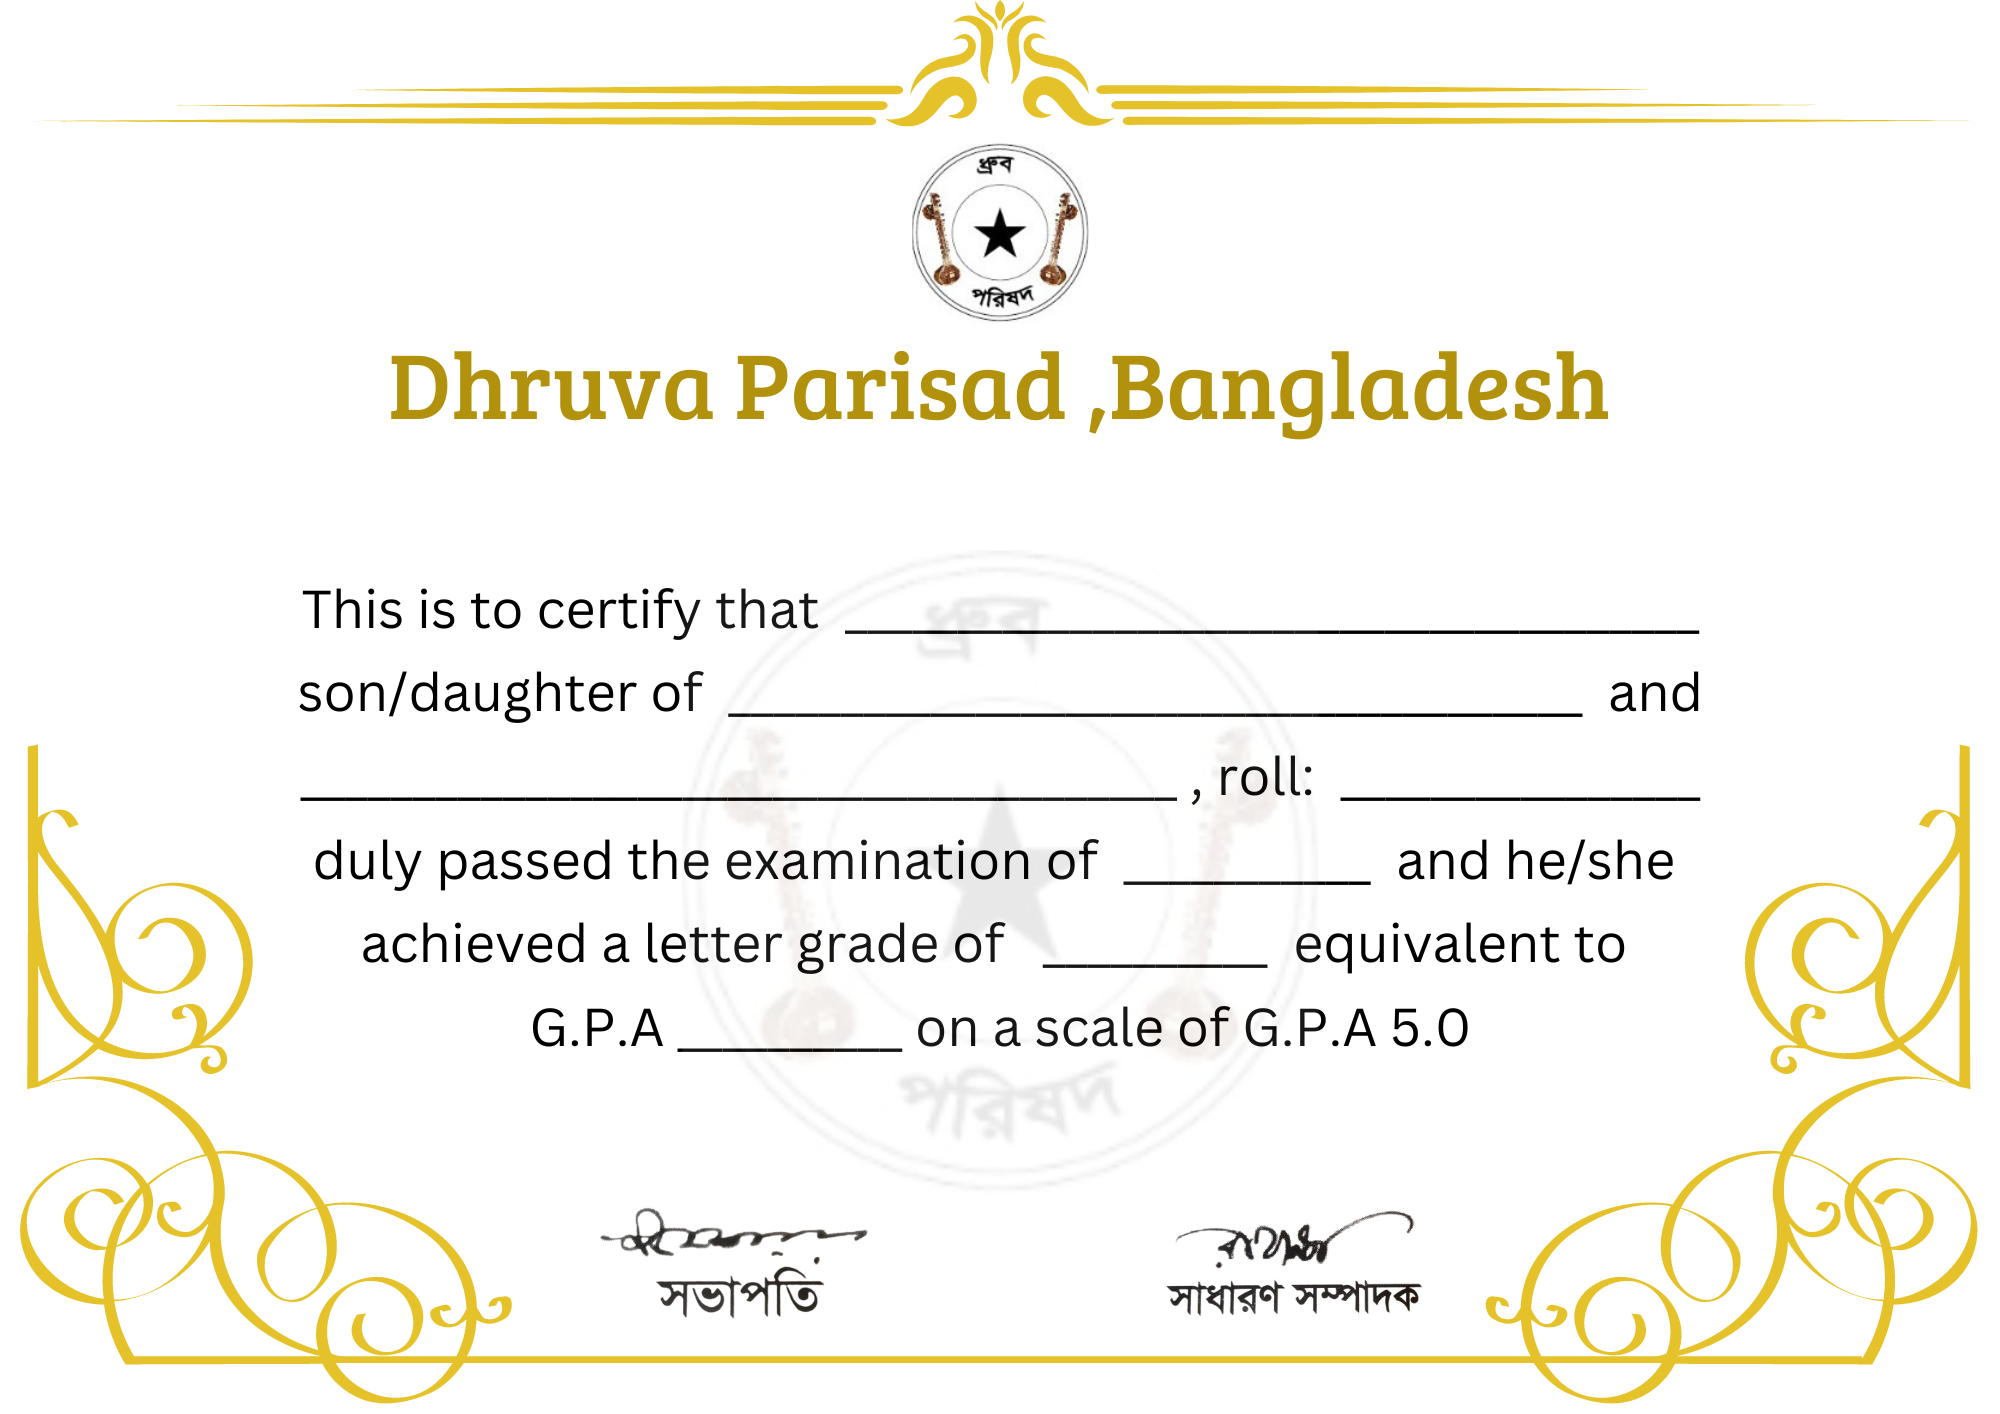
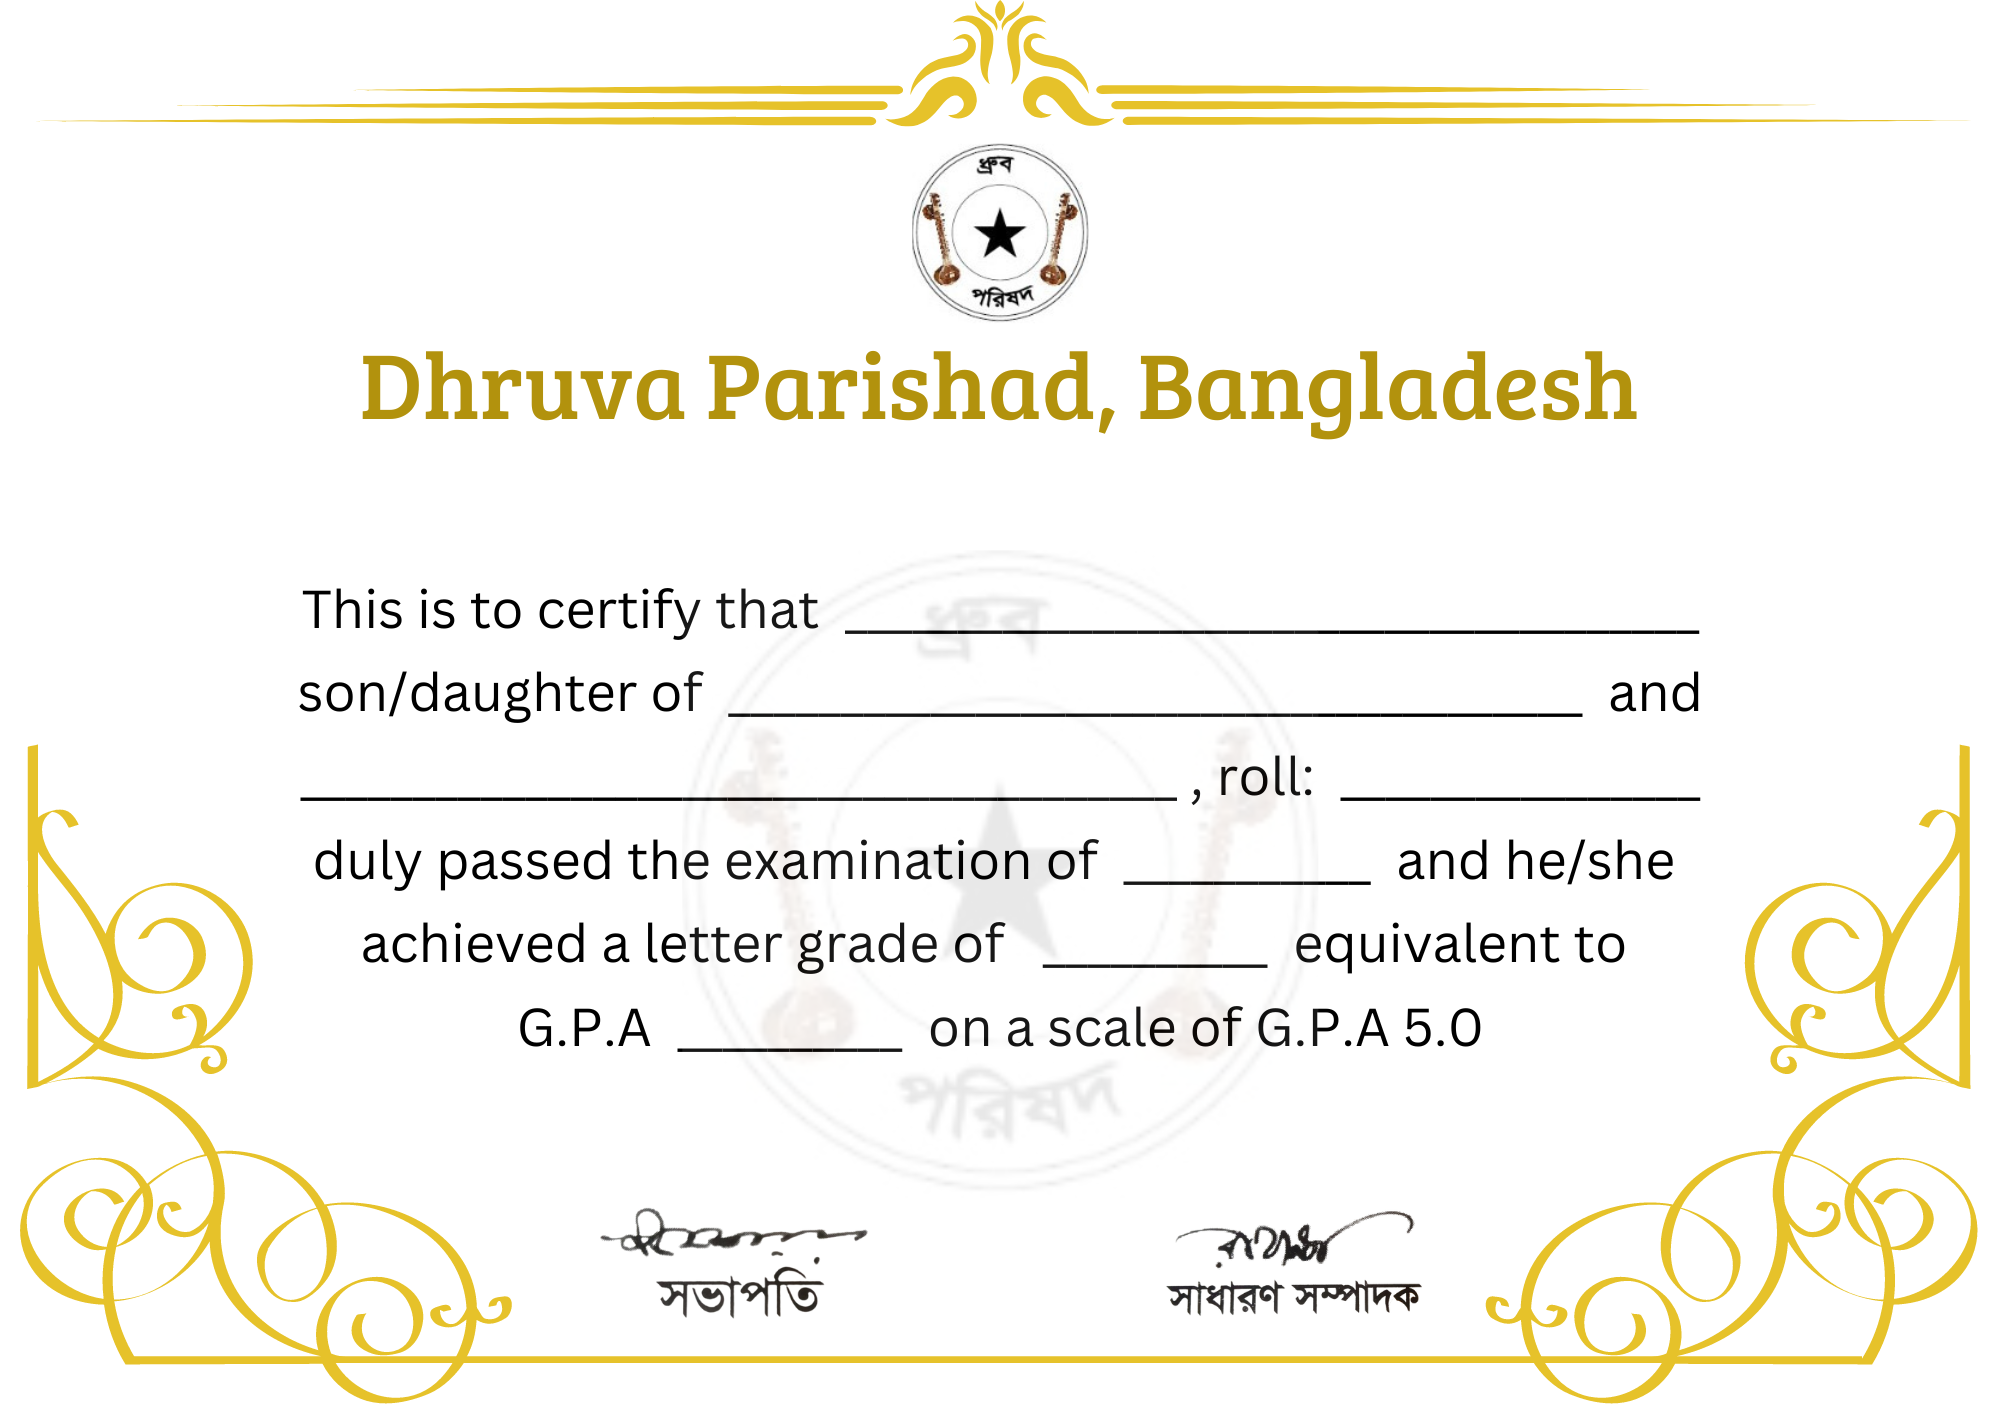
certificate for small device done

Changed region(s): [[0.186, 0.2489, 0.837, 0.3112], [0.465, 0.7157, 0.744, 0.7468], [0.248, 0.7157, 0.341, 0.7468]]

diff --git a/components/Certificate/Certificate.module.scss b/components/Certificate/Certificate.module.scss
@@ -90,28 +90,28 @@
       }
       .roll_design {
         margin-left: 220px;
-        margin-top: -8px;
+        margin-top: -9px;
         font-style: italic;
         font-size: 8px;
         font-weight: 600;
       }
       .exam_date_design {
         margin-left: 180px;
-        margin-top: 5px;
+        margin-top: 3px;
         font-style: italic;
         font-size: 8px;
         font-weight: 600;
       }
       .result_design1 {
         margin-left: 170px;
-        margin-top: 5px;
+        margin-top: 10px;
         font-style: italic;
         font-size: 8px;
         font-weight: 600;
       }
       .result_design2 {
         margin-left: 120px;
-        margin-top: 6px;
+        margin-top: 10px;
         font-style: italic;
         font-size: 8px;
         font-weight: 600;
@@ -142,28 +142,28 @@
         }
         .roll_design {
           margin-left: 350px;
-          margin-top: -8px;
+          margin-top: -10px;
           font-style: italic;
           font-weight: 600;
           font-size: 12px;
         }
         .exam_date_design {
           margin-left: 300px;
-          margin-top: 0px;
+          margin-top: -1px;
           font-style: italic;
           font-weight: 600;
           font-size: 12px;
         }       
         .result_design1 {
           margin-left: 280px;
-          margin-top: 5px;
+          margin-top: 3px;
           font-style: italic;
           font-weight: 600;
           font-size: 12px;
         }
         .result_design2 {
           margin-left: 190px;
-          margin-top: 5px;
+          margin-top: 3px;
           font-style: italic;
           font-weight: 600;
           font-size: 12px;
@@ -202,7 +202,7 @@
         }
         .exam_date_design {
           margin-left: 350px;
-          margin-top: px;
+          margin-top: 5px;
           font-style: italic;
           font-weight: 600;
           font-size: 16px;

diff --git a/pages/_app.js b/pages/_app.js
@@ -13,17 +13,17 @@ export default function App({ Component, pageProps }) {
   return (
     <>
       <Head>
-        <title>Dhurva Parishad</title>
+        <title>Dhruva Parishad</title>
         <meta
           name="description"
-          content="This is a website of Dhurva Parishad for exam and result management"
+          content="This is a website of Dhruva Parishad for exam and result management"
         />
-        <meta name="keywords" content="Dhurva, Parishad, Bangladesh" />
+        <meta name="keywords" content="Dhruva, Parishad, Bangladesh" />
         <meta name="viewport" content="width=device-width, initial-scale=1" />
-        <meta property="og:title" content="Dhurva Parishad Bangladesh" />
+        <meta property="og:title" content="Dhruva Parishad Bangladesh" />
         <meta
           property="og:description"
-          content="Dhurva Parishad Exam & Result management"
+          content="Dhruva Parishad Exam & Result management"
         />
         <meta property="og:image" content="/public/logo.jpeg" />
         <link rel="icon" href="/favicon.ico" />

diff --git a/components/shared/Footer/Footer.js b/components/shared/Footer/Footer.js
@@ -21,7 +21,7 @@ const Footer = () => {
                 <h1 className={styles.district_name}>Chittagong</h1>
               </div>
               <div className={styles.districts}>
-                <h1 className={styles.district_name}>Jashor</h1>
+                <h1 className={styles.district_name}>Jashore</h1>
                 <h1 className={styles.district_name}>Barishal</h1>
               </div>
             </div>
